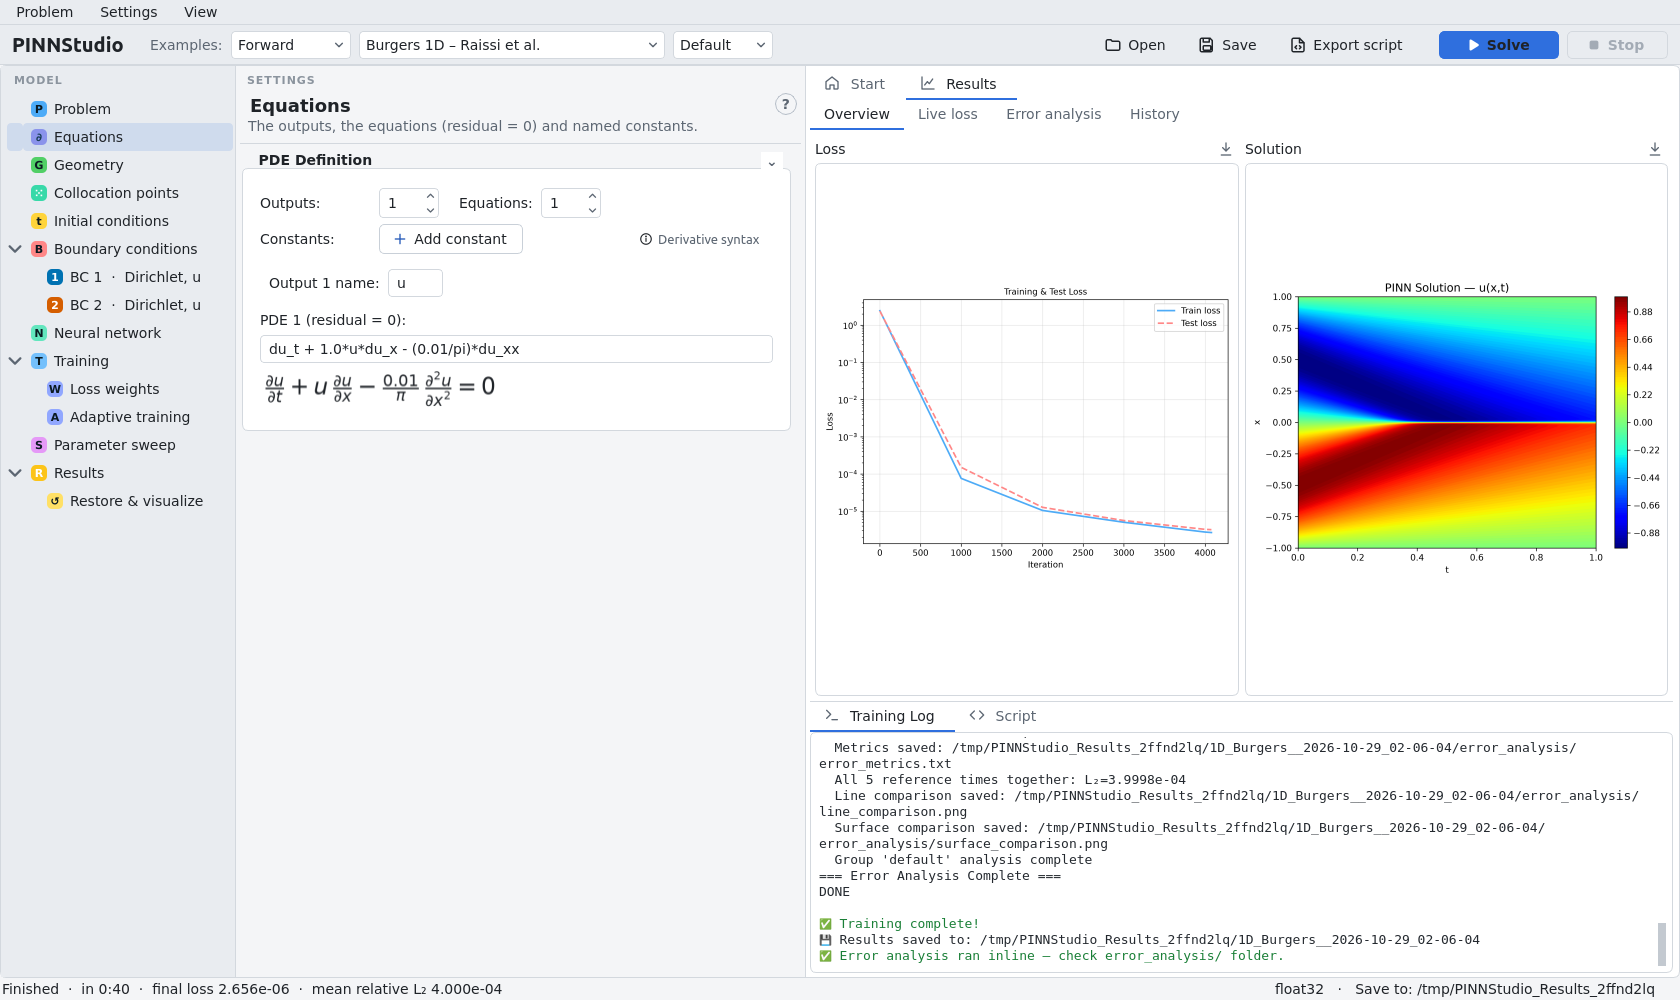
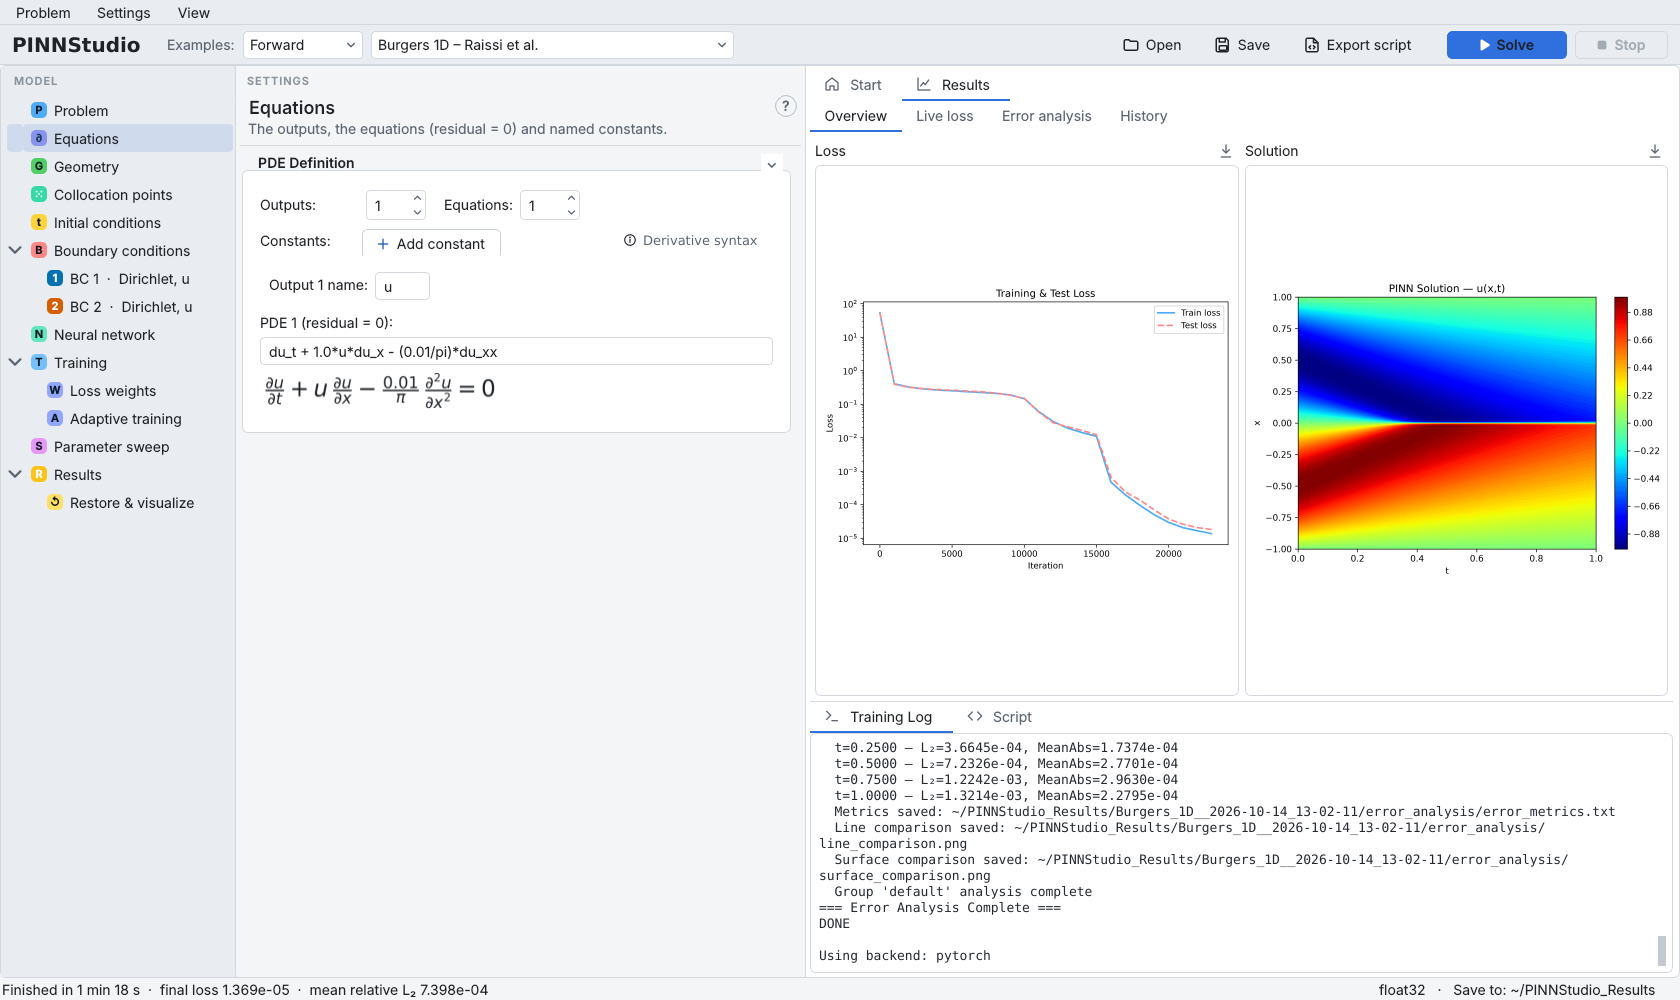
Keep docs/ (the page served at the public address from main) exactly as on main, so the merge does not change the public site; the updated project page stays in the history (notes/project-page/README.md)

diff --git a/docs/index.html b/docs/index.html
@@ -3,16 +3,11 @@
 <head>
 <meta charset="UTF-8">
 <meta name="viewport" content="width=device-width, initial-scale=1.0">
-<title>PINNStudio: A graphical platform for forward and inverse physics-informed neural networks</title>
-<meta name="description" content="A graphical platform for forward and inverse physics-informed neural networks.">
-<meta property="og:title" content="PINNStudio: A graphical platform for forward and inverse physics-informed neural networks">
-<meta property="og:description" content="A graphical platform for forward and inverse physics-informed neural networks.">
-<meta property="og:image" content="https://asfandyarkhan72.github.io/PINNStudio/assets/social_preview.png">
-<meta property="og:image:width" content="1280">
-<meta property="og:image:height" content="640">
-<meta name="twitter:card" content="summary_large_image">
-<link rel="icon" type="image/png" href="assets/pinnstudio_icon.png">
-<link rel="apple-touch-icon" href="assets/pinnstudio_icon.png">
+<title>PINNStudio — Physics-Informed Neural Networks Without Code</title>
+<meta name="description" content="A no-code scientific computing environment for solving forward and inverse problems with physics-informed neural networks — from setting up the equations to training, error analysis, and visualization.">
+<meta property="og:title" content="PINNStudio — Physics-Informed Neural Networks Without Code">
+<meta property="og:description" content="A no-code scientific computing environment for solving forward and inverse problems with physics-informed neural networks.">
+<meta property="og:image" content="https://asfandyarkhan72.github.io/PINNStudio/assets/interface.png">
 <meta property="og:type" content="website">
 <style>
   :root {
@@ -52,9 +47,7 @@
     border-bottom: 1px solid var(--border);
   }
   nav.top .wrap { display: flex; align-items: center; justify-content: space-between; height: 56px; gap: 16px; }
-  nav.top .brand { font-weight: 700; color: var(--text); letter-spacing: -0.01em; display: inline-flex; align-items: center; gap: 9px; }
-  nav.top .brand img { border-radius: 6px; }
-  .hero-icon { display: block; margin: 0 auto 18px; border-radius: 20px; box-shadow: 0 10px 30px rgba(0, 0, 0, 0.45); }
+  nav.top .brand { font-weight: 700; color: var(--text); letter-spacing: -0.01em; }
   nav.top .links { display: flex; gap: 22px; font-size: 14.5px; }
   nav.top .links a { color: var(--text-dim); }
   nav.top .links a:hover { color: var(--text); text-decoration: none; }
@@ -169,7 +162,7 @@
 
 <nav class="top">
   <div class="wrap">
-    <a class="brand" href="#"><img src="assets/pinnstudio_icon.png" alt="" width="26" height="26">PINNStudio</a>
+    <a class="brand" href="#">PINNStudio</a>
     <div class="links">
       <a href="#why">Why</a>
       <a href="#interface">Interface</a>
@@ -185,10 +178,9 @@
 
 <header class="hero">
   <div class="wrap">
-    <span class="eyebrow">Open source · GPLv3 · Python</span>
-    <img class="hero-icon" src="assets/pinnstudio_icon.png" alt="PINNStudio icon" width="88" height="88">
+    <span class="eyebrow">Open source · MIT license · Python</span>
     <h1>PINNStudio</h1>
-    <p class="tagline">A graphical platform for forward and inverse physics-informed neural networks.</p>
+    <p class="tagline">A no-code scientific computing environment for solving forward and inverse problems with physics-informed neural networks — from setting up the equations to training, error analysis, and visualization.</p>
 
     <div class="install-box">
       <code>curl -LsSf https://raw.githubusercontent.com/AsfandyarKhan72/PINNStudio/main/get-pinnstudio.sh | sh</code>
@@ -203,7 +195,7 @@
     </div>
 
     <div class="stats">
-      <div><b>64</b>ready-to-run examples</div>
+      <div><b>65</b>ready-to-run examples</div>
       <div><b>ODE → 3D</b>steady and time-dependent</div>
       <div><b>Forward &amp; inverse</b>solve or learn from data</div>
       <div><b>No code</b>required</div>
@@ -267,8 +259,8 @@
           <figcaption><b>Sketch the domain.</b> Draw it, type it or import a DXF/SVG drawing, then click its edges to give them boundary conditions.</figcaption>
         </figure>
         <figure class="shot dark">
-          <img src="assets/live_loss.png" alt="Live loss: the training and test loss during training, progress and time left in the status bar" loading="lazy">
-          <figcaption><b>Watch it train.</b> The loss live (or every loss term), and the time left in the status bar.</figcaption>
+          <img src="assets/live_loss.png" alt="Live loss of each loss term during training, the L-BFGS phase marked, progress in the status bar" loading="lazy">
+          <figcaption><b>Watch it train.</b> Every loss term live, the phases marked, and the time left in the status bar.</figcaption>
         </figure>
       </div>
       <div class="shot-pair">
@@ -342,10 +334,8 @@
         <h3>Adaptive methods</h3>
         <ul>
           <li>Residual-based adaptive refinement (RAR)</li>
-          <li>Time windows with transfer learning, a growing time range, backward compatibility (bc-PINN) and per-window resampling</li>
+          <li>Time-adaptive training with transfer learning</li>
           <li>Initial-condition-guided pre-training</li>
-          <li>Per-point weights (RBA, SA-PINN) and causal training</li>
-          <li>Initial and periodic conditions built into the network</li>
         </ul>
       </div>
       <div class="card">
@@ -372,7 +362,7 @@
   <div class="wrap">
     <div class="kicker">Results</div>
     <h2>Everything you need to trust a result</h2>
-    <p class="section-sub">Each run reports its error against reference data and saves the figures to judge it — here from the Burgers equation, one of the 64 examples.</p>
+    <p class="section-sub">Each run reports its error against reference data and saves the figures to judge it — here from the Burgers equation, one of the 65 examples.</p>
     <div class="shots">
       <figure class="shot">
         <img src="assets/burgers_error.png" alt="PINN solution, reference solution and their difference for the Burgers equation" loading="lazy">
@@ -399,8 +389,8 @@
 <section id="examples">
   <div class="wrap">
     <div class="kicker">Examples</div>
-    <h2>64 examples, ready to run</h2>
-    <p class="section-sub">Each example loads every setting in one click — pick it, press Solve, and compare with the reference. 62 come with an exact solution or reference data, and 25 can be run as inverse problems. Each loads with its source's own settings (<em>Default</em>) or with PINNStudio's most accurate settings from the benchmarks (<em>Tuned</em>).</p>
+    <h2>65 examples, ready to run</h2>
+    <p class="section-sub">Each example loads every setting in one click — pick it, press Solve, and compare with the reference. 58 come with an exact solution or reference data, and 22 can be run as inverse problems.</p>
     <div class="ex-row">
       <div class="card">
         <h3>Published benchmarks</h3>
@@ -412,7 +402,7 @@
       </div>
       <div class="card">
         <h3>ODE · 1D · 2D · 3D</h3>
-        <p>7 ODE, 33 one-dimensional, 18 two-dimensional and 6 three-dimensional problems.</p>
+        <p>7 ODE, 32 one-dimensional, 17 two-dimensional and 4 three-dimensional problems.</p>
       </div>
     </div>
     <div class="chips">
@@ -424,8 +414,6 @@
     </div>
     <div class="cta-row" style="justify-content:flex-start; margin-top:28px;">
       <a class="btn secondary" href="https://github.com/AsfandyarKhan72/PINNStudio#examples">See all examples and their results</a>
-      <a class="btn secondary" href="https://github.com/AsfandyarKhan72/PINNStudio/blob/main/benchmarks/README.md">Benchmarks: the accuracy of every example</a>
-      <a class="btn secondary" href="https://github.com/AsfandyarKhan72/PINNStudio/blob/main/benchmarks/performance.md">Speed: GPU, CPU threads and the window</a>
     </div>
   </div>
 </section>
@@ -460,7 +448,7 @@
     <div class="cite-box">
       <pre id="bibtex"><code>@software{khan2026pinnstudio,
   author  = {Khan, Asfandyar and Mamivand, Mahmood},
-  title   = {PINNStudio: A graphical platform for forward and inverse physics-informed neural networks},
+  title   = {PINNStudio: A No-Code Scientific Computing Environment for Forward and Inverse Physics-Informed Neural Networks},
   year    = {2026},
   url     = {https://github.com/AsfandyarKhan72/PINNStudio}
 }</code></pre>
@@ -479,7 +467,7 @@
       <a href="https://github.com/AsfandyarKhan72/PINNStudio">GitHub</a>
       <a href="https://pypi.org/project/pinnstudio/">PyPI</a>
       <a href="https://github.com/AsfandyarKhan72/PINNStudio/discussions">Discussions</a>
-      <a href="https://github.com/AsfandyarKhan72/PINNStudio/blob/main/LICENSE">GNU GPL v3</a>
+      <a href="https://github.com/AsfandyarKhan72/PINNStudio/blob/main/LICENSE">MIT License</a>
     </div>
   </div>
 </footer>

diff --git a/notes/project-page/README.md b/notes/project-page/README.md
@@ -1,0 +1,15 @@
+# The old project page (`docs/`) during integration
+
+The public address https://asfandyarkhan72.github.io/PINNStudio/ is served from `main`'s `docs/` folder
+(Settings → Pages → Deploy from a branch, see `tools/docs/DEPLOY.md`). So that merging the v1.6.0 work into
+`main` does not change the public page, `docs/` is kept exactly as it is on `main` (the v1.5.0 page, MIT).
+
+The integration branch had updated that page (application icon in the navigation and as favicon, a cover image
+for link previews, new screenshots, and a license line that said GPLv3). Those changes are kept in the history:
+
+    git show 351c21f:docs/index.html                 # the updated page
+    git diff 351c21f~0 -- docs/                      # or: git checkout 351c21f -- docs/ to restore all of it
+
+`tools/make_app_icon.py` and `tools/make_social_preview.py` write `docs/assets/pinnstudio_icon.png` and
+`docs/assets/social_preview.png` when run. The documentation website in `website/` replaces this page when its
+deployment is approved; the page stays in `main` as the rollback until then (DEPLOY.md, *Rollback*).
